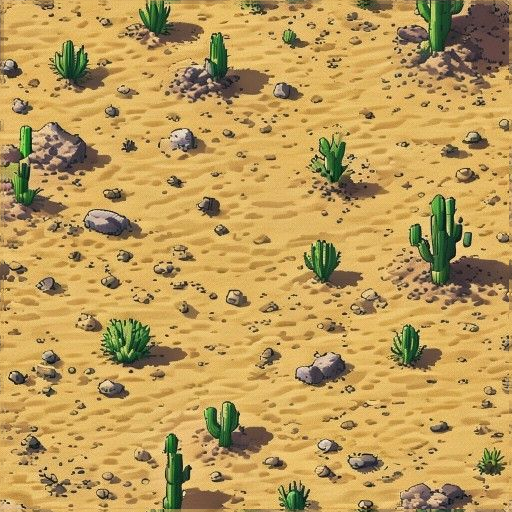
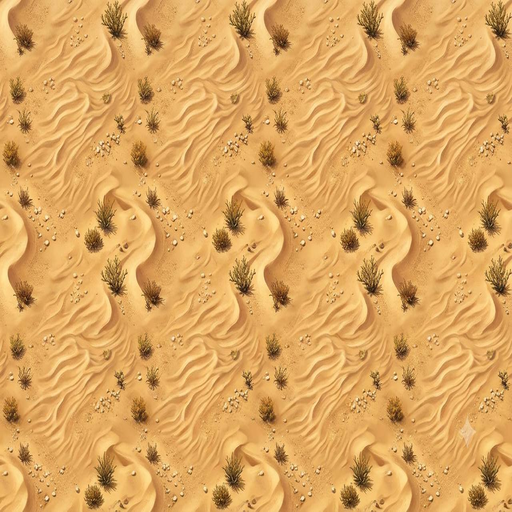
V285: Replace desert background tile with new image

diff --git a/config.js b/config.js
@@ -1,4 +1,4 @@
-window.GAME_VERSION = "V284";
+window.GAME_VERSION = "V285";
 window.HARDCORE_HP_MULTIPLIER = 3.0; 
 window.LEVEL_CLEAR_HEAL_PERCENT = 0.5;
 window.DEBUG_SHOW_HITBOX = false;
